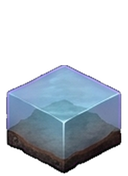
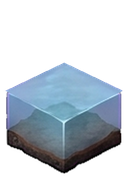
City map: land without a line between cells, in four turns
The cutter trims the rim off the top face of each terrain's ground and water
tiles and stretches what is inside back to the grid's diamond, so
neighbouring cells meet without Gemini's outline and raised edge between
them; the block's sides stay for the edge of the world. Each comes in four
turns the diamond allows, mirrored either way and half turned, and the
ground picks one per cell.

Claude-Session: https://claude.ai/code/session_01QCa4dxsanwsHCVzfCwMs2u

diff --git a/src/components/citymap/drawTerrain.ts b/src/components/citymap/drawTerrain.ts
@@ -266,7 +266,9 @@ function paintTiles(
       if (u < t0 - 1 || u > t1 || !inWorld(world, s, u)) continue;
       const cell = terrainCell(s, u, zones);
       const water = cell.ground === 'water' || cell.ground === 'brine';
-      drawTile(ctx, `${tileSet(cell)}/${water ? 'water' : 'grass'}_center_N`, (s - u) * TW, (s + u) * TH);
+      const turn = Math.floor(hash2(s * 7 + 1, u * 13 + 5) * 4);
+      const name = `${tileSet(cell)}/${water ? 'water' : 'grass'}_center_N${turn ? `~${turn}` : ''}`;
+      drawTile(ctx, name, (s - u) * TW, (s + u) * TH);
     }
   }
 }

diff --git a/src/components/citymap/sketchTiles.ts b/src/components/citymap/sketchTiles.ts
@@ -6,6 +6,7 @@ type Ctx = CanvasRenderingContext2D;
 const urls = import.meta.glob<string>(
   [
     '../../../assets/tiles/terrain-*/{grass_center,water_center,tree_single,tree_multiple,tree_pine,tree_pineLarge,rocks_grass,tree,trees,rocks}_N.png',
+    '../../../assets/tiles/terrain-*/{grass,water}_center_N~*.png',
     '../../../assets/tiles/city-*/{building,roof}_*.png',
     '../../../assets/tiles/city-*/{grass_center,grass_path,grass_pathCrossing,dirt_center}_*.png',
   ],

diff --git a/scripts/cut-tilesheets.py b/scripts/cut-tilesheets.py
@@ -6,10 +6,12 @@ Cuts redrawn tile sheets back into tiles for the city map.
 Needs Pillow, numpy and scipy. Reads each sheet beside its manifest, keys
 out the #FF00FF ground, and places every tile in Kenney's 256x352 frame by
 fitting its outline to the original tile's, then writes it at half size.
+A terrain's full ground and water tiles lose the rim of their top face and
+come in four turns, `~1` to `~3` beside the first.
 Prints the tiles whose outline still differs from the original's.
 """
 import json, os, sys, glob, collections
-from PIL import Image
+from PIL import Image, ImageDraw, ImageOps
 import numpy as np
 from scipy import ndimage
 
@@ -78,6 +80,29 @@ def fit(tile, ref, deco):
     frame.paste(crop.resize((w, h), Image.LANCZOS), (dx, dy))
     return np.asarray(frame.convert('RGBA'))
 
+FACE = (128, 181, 116, 55)
+FACE_INSET = 0.18
+SEAMLESS = ('grass_center_N', 'water_center_N')
+
+def seamless(tile):
+    """The block with its top face cut in from the rim and stretched back to the grid's diamond, so neighbours meet without a line; four ways round, which the diamond allows."""
+    cx, cy, hw, hh = FACE
+    k = 1 - FACE_INSET
+    inner = tile.crop((round(cx - hw * k), round(cy - hh * k), round(cx + hw * k), round(cy + hh * k)))
+    size = (2 * hw + 2, 2 * hh + 2)
+    top = inner.convert('RGBa').resize(size, Image.LANCZOS).convert('RGBA')
+    mask = Image.new('L', size, 0)
+    ImageDraw.Draw(mask).polygon([(hw + 1, 0), (2 * hw + 2, hh + 1), (hw + 1, 2 * hh + 2), (0, hh + 1)], fill=255)
+    out = []
+    for turned in (top, ImageOps.mirror(top), ImageOps.flip(top), top.rotate(180)):
+        block = tile.copy()
+        block.paste(turned, (cx - hw - 1, cy - hh - 1), mask)
+        out.append(block)
+    return out
+
+def save(img, path):
+    img.convert('RGBa').resize((W // 2, H // 2), Image.LANCZOS).convert('RGBA').save(path, optimize=True)
+
 report = []
 for jf in sorted(glob.glob(f'{SRC}/*.json')):
     slug = os.path.basename(jf)[:-5]
@@ -97,8 +122,12 @@ for jf in sorted(glob.glob(f'{SRC}/*.json')):
         big = Image.fromarray(rgba, 'RGBA').convert('RGBa').resize(
             (round(rgba.shape[1] / sx), round(rgba.shape[0] / sy)), Image.LANCZOS).convert('RGBA')
         placed = fit(np.asarray(big), ref, name.startswith(DECO))
-        Image.fromarray(placed, 'RGBA').convert('RGBa').resize((W // 2, H // 2), Image.LANCZOS).convert('RGBA').save(
-            f'{OUT}/{slug}/{name}{"@night" if night else ""}.png', optimize=True)
+        suffix = '@night' if night else ''
+        if slug.startswith('terrain-') and name in SEAMLESS:
+            for n, block in enumerate(seamless(Image.fromarray(placed, 'RGBA'))):
+                save(block, f'{OUT}/{slug}/{name}{f"~{n}" if n else ""}{suffix}.png')
+        else:
+            save(Image.fromarray(placed, 'RGBA'), f'{OUT}/{slug}/{name}{suffix}.png')
         mask = placed[..., 3] > 128
         iou = (mask & ref).sum() / max(1, (mask | ref).sum())
         report.append((slug, 'night' if night else 'day', name, round(float(iou), 2)))
